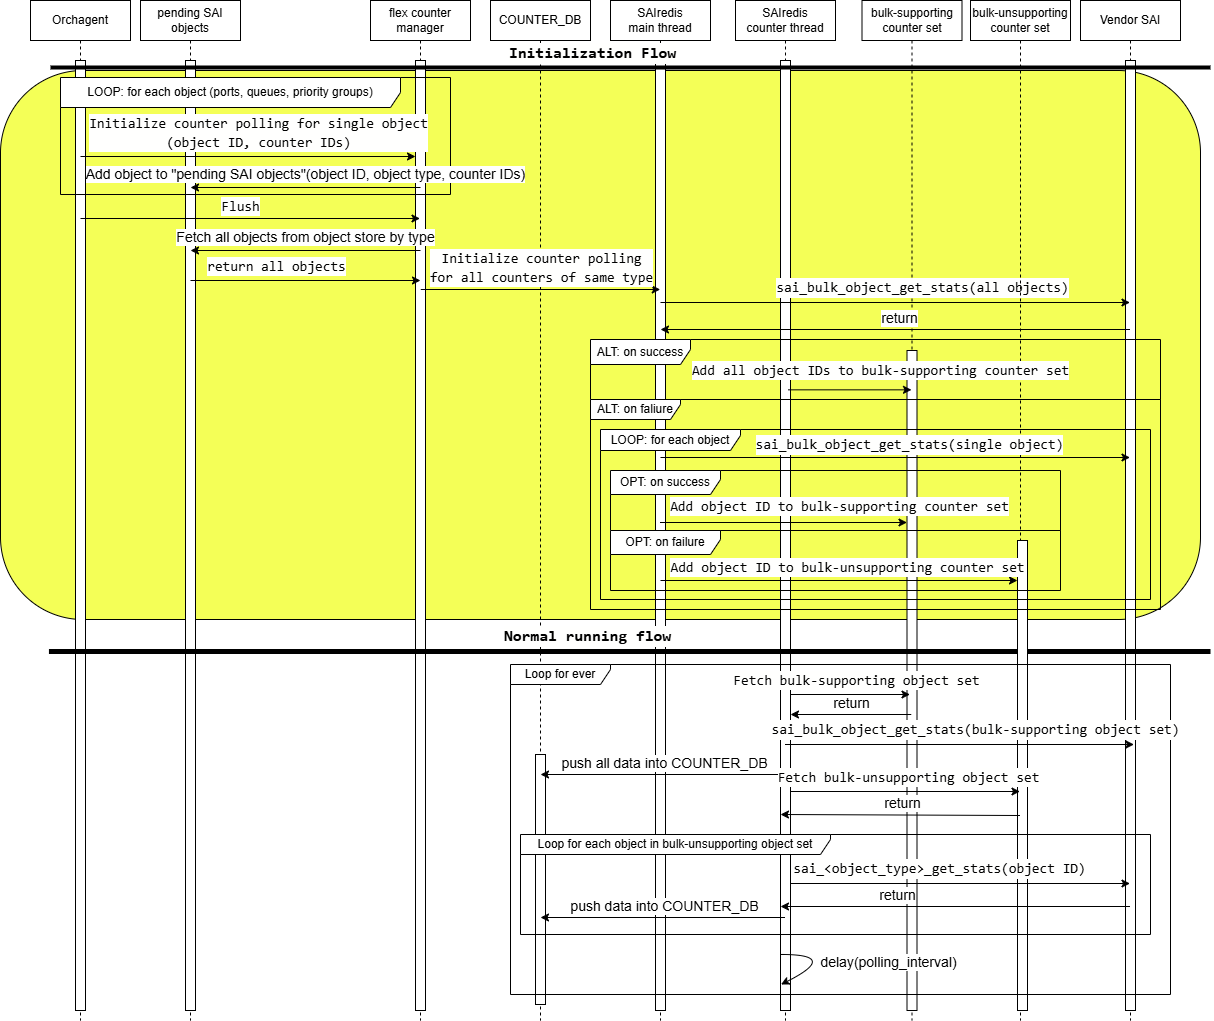
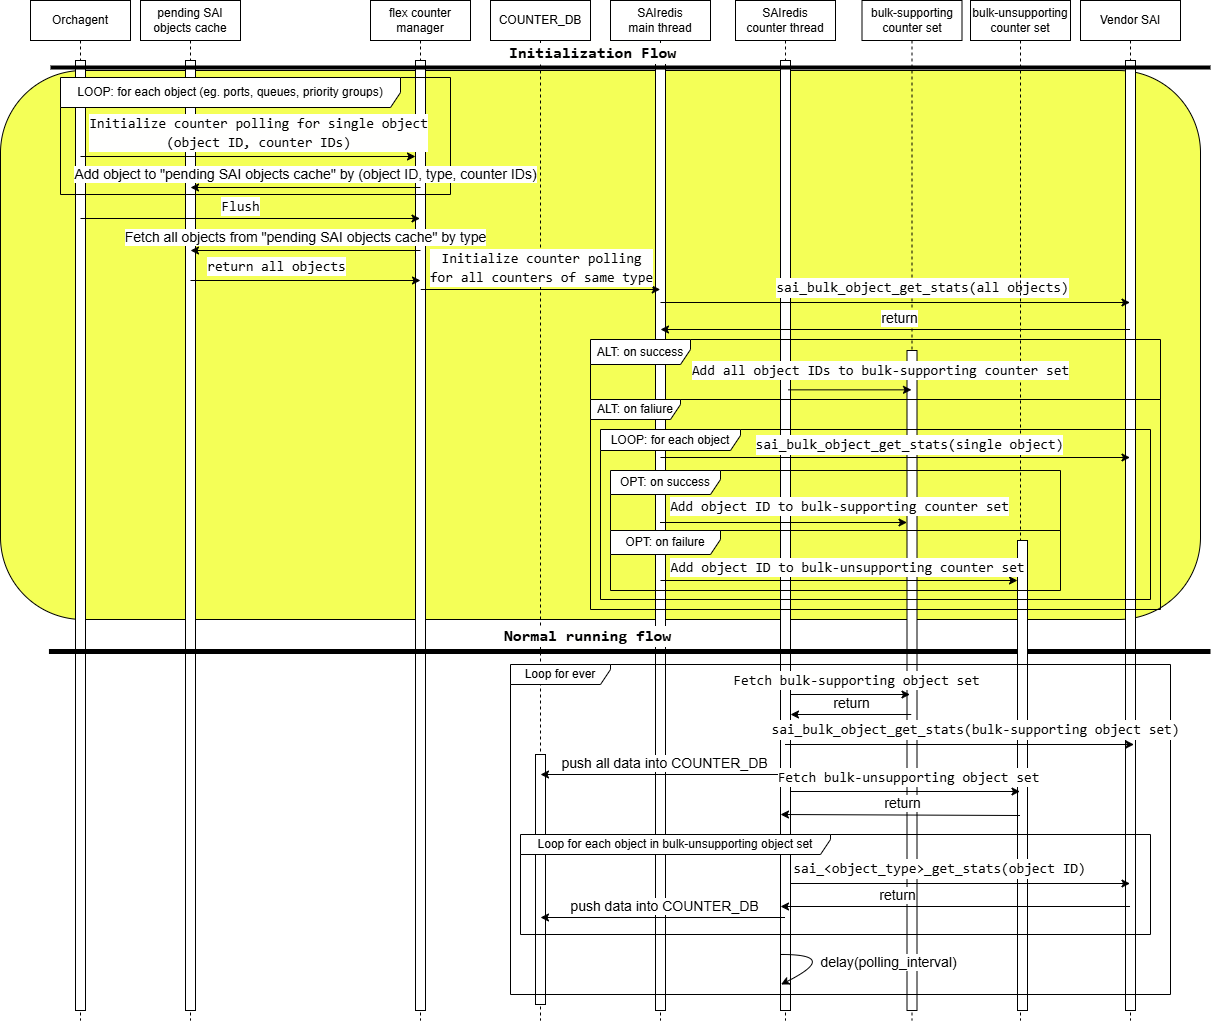
Re-phasing

diff --git a/doc/flex_counter/optimize-counter-initialization.md b/doc/flex_counter/optimize-counter-initialization.md
@@ -6,7 +6,7 @@
 
  | Rev |     Date    |       Author       | Change Description                |
  |:---:|:-----------:|:------------------:|-----------------------------------|
- | 0.1 |             |      Stephen Sun   | Initial version                   |
+ | 0.1 | Dec 03 2024 |      Stephen Sun   | Initial version                   |
 
 ### Scope
 
@@ -21,7 +21,7 @@ Runtime counter performance optimization is out of scope.
 | PG | Represents priority group, which is the ingress queue on a port |
 | single counter-poll API | Represents the SAI API calls to fetch many counters of a single SAI object. |
 || They have the name convention of `get_<object_type>_stats` or `get_<object_type>_stats_ext`. |
-|| Like `get_port_stat`, `get_port_stat_ext`, `get_queue_stat_ext`, etc. |
+|| Like `get_port_stats`, `get_port_stats_ext`, `get_queue_stats_ext`, etc. |
 | bulk counter-poll API | Represents `sai_bulk_object_get_stats`, the SAI API call to fetch a uniform set of counters of many SAI objects in one-shot. |
 | counter group | The way that counters are managed in SONiC. The counters are divided into different groups by their motivation. |
 | flex counter | The component that manages counter polling in SONiC. |
@@ -29,7 +29,7 @@ Runtime counter performance optimization is out of scope.
 
 ### Overview
 
-Counter is an important way to monitor a system's performance and trouble shoting. Flex Counter is responsible for managing counters in SONiC. The counters are polled, represented on a per group basis. The groups are organized based on the counters' motivation and providers. In SONiC, counters are divided into counter groups. The number of groups varies among different system. The following groups exist on all systems:
+Counter is an important way to monitor a system's performance and trouble shooting. Flex Counter is responsible for managing counters in SONiC. The counters are polled, represented on a per group basis. The groups are organized based on the counters' motivation and providers. In SONiC, counters are divided into counter groups. The number of groups varies among different systems. The following groups exist on all systems:
 
 1. Port counter group
 2. Port drop counter group
@@ -41,17 +41,17 @@ Counter is an important way to monitor a system's performance and trouble shotin
 The flex counter handles counter on a per group basis in the following ways:
 
 - To initialize counters during system initialization
-- To polls counter periodically during system running
+- To poll counters periodically during system running
 
 Originally, the counters were polled using single counter-poll API, which means only one object's counters could be polled by a SAI API call. However, it is time consuming to poll the counters because there are a large number of counters on the SONiC system, which introduces performance issues.
 
-The bulk counter poll API has been introduced to improve the performance of counter polling, enabling a set of objects' counter to be polled in one SAI API call. However, all the objects' counters do not support to be polled in bulk mode. Eg. bulk counter polling can be supported on unicast queues but not multicast queues on some platforms. It requires to check whether bulk API is supported on each object during initialization and group all the bulk-counter-supporting objects together and then poll their counters in bulk mode. We still use single counter-poll API on the objects whose counters can not be polled in bulk mode.
+The bulk counter poll API has been introduced to improve the performance of counter polling, enabling a set of objects' counters to be polled in one SAI API call. However, all the objects' counters do not support to be polled in bulk mode. Eg. bulk counter polling can be supported on unicast queues but not multicast queues on some platforms. It requires checking whether bulk API is supported on each object during initialization and grouping all the bulk-counter-supporting objects together and then polling their counters in bulk mode. We still use single counter-poll API on the objects whose counters can not be polled in bulk mode.
 
-However, it is time-consuming to check whether bulk API is supported on each object during initialization, especially on the systems with a large number of ports. This is because:
+However, it is time-consuming to check whether bulk counter poll API is supported on each object during initialization, especially on systems with a large number of ports. This is because:
 
 1. The number of objects increases significantly when the number of ports increases.
 
-    Many counters are attached on port, queue, PG objects which are the directly proportional to the number of ports.
+    Many counters are attached to port, queue, PG objects which are directly proportional to the number of ports.
 
     By default, there are 3 PGs and 8 queues per port. So, for each port there are 12 objects relevant
 
@@ -63,7 +63,7 @@ In this design, we improve the counter initialization by checking whether bulk o
 
 #### Challenge
 
-The counter initialization flow starts from orchagent on a per object basis. We need to group bulk-counter-polling-supporting objects together from orchagent.
+The counter initialization flow starts from orchagent on a per object per counter group basis. We need to group bulk-counter-polling-supporting objects together from orchagent.
 
 #### Benefit
 
@@ -82,31 +82,31 @@ The current architecture is not changed in this design.
 
 #### Current approach
 
-The current flow to initialize the counter is as following:
+The current flow to initialize a counter group is as following:
 
 ![current-initialization-flow](optimize-counter-initialization-files/counter-initialization-current-approach.png).
 
-1. Orchagents starts to initialize counters for each object, including ports, PGs, queues, etc. For each object, orchagent notifies the counter manager and then counter manager notifies SAIRedis to start counter polling on a set of counter IDs.
+1. Orchagent starts to initialize counters for each object, like ports, PGs, queues, etc. For each object, orchagent notifies the flex counter manager and then flex counter manager notifies SAIRedis to start counter polling on a set of counter IDs.
 2. SAIRedis needs to call `sai_bulk_object_get_stats` for each object with counter IDs as the arguments
 
     1. SAIRedis adds the object to `bulk-supporting object set` if the call succeeds.
     2. SAIRedis adds the object to `bulk-unsupporting object set` if the call fails.
 
-In the normal runtime, SAIRedis
+In the normal runtime, SAIRedis periodically executes the following for each counter group:
 
-1. Calls `sai_bulk_object_get_stats` for all object in `bulk-supporting object set` once to get statistics in bulk mode
+1. Calls `sai_bulk_object_get_stats` for all objects in `bulk-supporting object set` once to get statistics in bulk mode
 2. For each object in `bulk-unsupporting object set`, calls `sai_<object_type>_get_stats(object ID, counter IDs)` to get statistics in single mode
 
 To summarize, SAIRedis needs to call `sai_bulk_object_get_stats` once for each object during initialization, which slows down the initialization process.
 
 #### Optimized approach
 
-The optimized flow to initialize the counter is as following:
+The optimized flow to initialize a counter group is as following:
 
 ![optimized-initialization-flow](optimize-counter-initialization-files/counter-initialization-optimized-approach.png).
 
-1. Orchagents starts to initialize counters for each object, including ports, PGs, queues, etc.
-2. The counter manager caches and groups objects of same type together and notifies SAIRedis to initialize counter for a set of objects.
+1. Orchagent starts to initialize counters for each object, like ports, PGs, queues, etc.
+2. The flex counter manager caches and groups objects of the same type together and notifies SAIRedis to initialize the counters for a set of objects.
 3. SAIRedis calls `sai_bulk_object_get_stats` with the set of objects, and counter IDs as the arguments.
 
     1. SAIRedis adds the object to `bulk-supporting object set` if the call succeeds.
@@ -133,11 +133,11 @@ The sub orchagents use flex counter manager to
 
 Originally, when a sub orchagent called flex counter manager to add an object to the counter group, flex counter manager directly notified SAIRedis to start to poll counters on the object.
 
-In this design, batch mode is introduced to enable the flex counter manager to notify SAIRedis to start to poll counters on a set of ojbects altogher.
+In this design, batch mode is introduced to enable the flex counter manager to notify SAIRedis to start to poll counters on a set of objects altogether.
 
 1. A flag is introduced as an argument of the constructor to indicate whether the batch mode is enabled.
-2. A cache, `pending_sai_objects`, is introduced, which accommondates all objects that have been notified by sub orchagent but have not notified SAIRedis to start to poll counters.
-3. A method `flush` which notifies SAIRedis to start to poll counters on all the object in `pending_sai_object`
+2. A cache, `pending_sai_objects`, is introduced, which accommodates all objects that have been notified by sub orchagent but have not notified SAIRedis to start to poll counters.
+3. A method `flush` which notifies SAIRedis to start to poll counters on all the objects in `pending_sai_object`
 4. The sub orchagent should call `flush` explicitly.
 
 ###### Ports orchagent
@@ -147,8 +147,8 @@ Ports orchagent manages counter polling of port, PG, and queue relevant flex cou
 1. Call method `flush` of flex counter manager directly in method `doTask` of ports orchagent.
 
     method `doTask` is essentially the `main loop` of each sub orchagent. It handles all `CONFIG_DB` or `APPL_DB` table updates.
-2. Originally, there was a single flex counter manager object managing a flex counter group for all queue objects. In this design we will introduce two flex counter manager objects for each queue relevant flex counter group, for unicast and multicast qwueues respectively.
-3. Originally, the PG flex counter group is not managed using flex counter manager. In this design, we will manage PG flex counter group using flex counter manager to simplify the code.
+2. Originally, there was a single flex counter manager object managing a flex counter group for all queue objects. In this design, we will introduce two flex counter manager objects for each queue relevant flex counter group, for unicast and multicast queues respectively.
+3. Originally, the PG flex counter group was not managed using flex counter manager. In this design, we will manage PG flex counter group using flex counter manager to simplify the code.
 
 ##### sonic-sairedis
 
